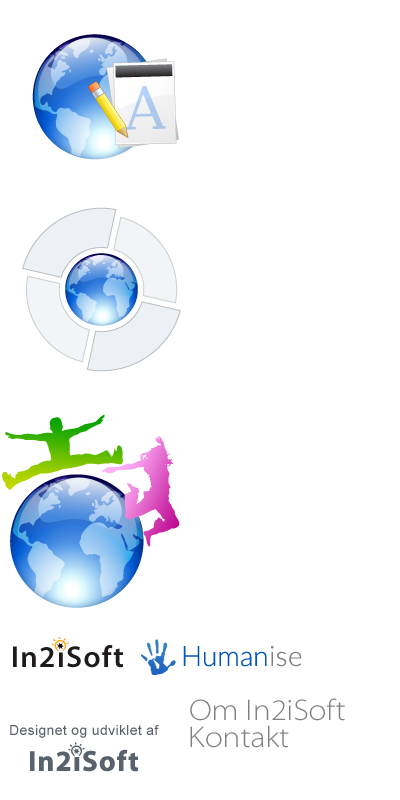
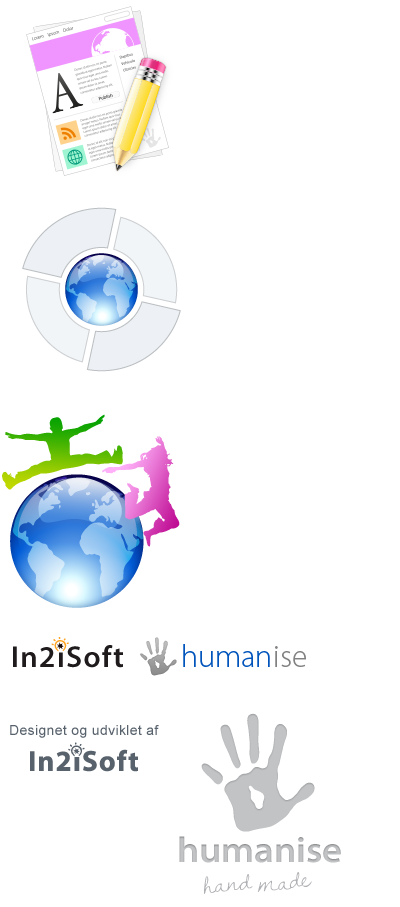
Humanise design

diff --git a/style/in2isoft/js/Poster.js b/style/in2isoft/js/Poster.js
@@ -10,9 +10,13 @@ Poster = function() {
 	this.context = 'style/in2isoft/gfx/';
 	this.leftImages = ['poster_in2isoft_image.png','poster_publisher_image.png','poster_in2igui_image.png','poster_onlineobjects_image.png'];
 	this.rightImages = ['poster_in2isoft_text.png','poster_publisher_text.png','poster_in2igui_text.png','poster_onlineobjects_text.png'];
+
+	this.leftImages = ['poster_humanise_image.png','poster_editor_image.png','poster_hui_image.png','poster_onlineobjects_image.png'];
+	this.rightImages = ['poster_humanise_text.png','poster_editor_text.png','poster_hui_text.png','poster_onlineobjects_text.png'];
+
 	this.links = ['om/','produkter/onlinepublisher/','teknologi/in2iGui/','produkter/onlineobjects/'];
-	this.leftPos = 0;
-	this.rightPos = 0;
+	this.leftPos = -1;
+	this.rightPos = -1;
 	var self = this;
 	this.poster.onclick = function() {
 		document.location=op.page.path+self.links[self.leftPos];

diff --git a/hui/js/Gallery.js b/hui/js/Gallery.js
@@ -46,6 +46,7 @@ hui.ui.Gallery.prototype = {
 		this.element.style.display='none';
 	},
 	show : function() {
+		hui.log('show');
 		this.element.style.display='';
 		if (this.options.source) {
 			this.options.source.refresh();
@@ -90,7 +91,7 @@ hui.ui.Gallery.prototype = {
 	},
 	/** @private */
 	$sourceShouldRefresh : function() {
-		return this.element.style.display!='none';
+		return hui.dom.isVisible(this.element);
 	},
 	/** @private */
 	$objectsLoaded : function(objects) {
@@ -102,6 +103,7 @@ hui.ui.Gallery.prototype = {
 	},
 	/** @private */
 	_render : function() {
+		hui.log('render')
 		this.nodes = [];
 		this.maxRevealed = 0;
 		this.body.innerHTML = '';
@@ -136,6 +138,7 @@ hui.ui.Gallery.prototype = {
 		this.fireSizeChange();
 	},
 	_reveal : function() {
+		hui.log('reveal');		
 		if (!this.revealing) {
 			return;
 		}

diff --git a/style/in2isoft/css/front.css b/style/in2isoft/css/front.css
@@ -127,7 +127,7 @@ ul.layout_placards strong
 	line-height: 30px;
 	font-weight: normal;
 	color: #89a;
-	padding: 8px 10px 15px;
+	padding: 8px 10px 10px;
 	font-family: Lato,"Lucida Grande","Lucida Sans Unicode", sans-serif;
 	font-weight: 300;
 }
@@ -143,7 +143,7 @@ ul.layout_placards span
 	display: block;
 	font-size: 18px;
 	line-height: 22px;
-	padding: 0 20px 0 150px;
+	padding: 5px 20px 0 150px;
 	height: 120px;
 	color: #567;
 	font-family: Lato,"Lucida Grande","Lucida Sans Unicode", sans-serif;
@@ -162,7 +162,7 @@ ul.layout_placards li.onlineme span
 
 ul.layout_placards li.onlinepublisher span
 {
-	background: url('../gfx/graphics.png') -44px -34px;
+	background: url('../gfx/graphics.png') -40px -5px;
 }
 
 ul.layout_placards li.onlineobjects span

diff --git a/style/in2isoft/css/humanise.css b/style/in2isoft/css/humanise.css
@@ -1,6 +1,22 @@
 ul.layout_navigation li.first a {
-	width: 162px;
-	height: 51px;
-	margin: -5px 10px 0 -6px;
-	background: url('../gfx/graphics.png') -140px -639px;
+	width: 170px;
+	height: 40px;
+	margin: -7px 10px 0 -6px;
+	background: url('../gfx/graphics.png') -140px -637px;
+}
+
+a.layout_design
+{
+	background: url('../gfx/graphics.png') -172px -709px;
+	text-indent: -10000px;
+	width: 177px;
+	height: 191px;
+	display: block;
+	margin: 0 auto;
+	margin-bottom: 10px;
+}
+
+div.layout_footer
+{
+	padding-bottom: 20px;
 }

diff --git a/style/in2isoft/css/adaption.css b/style/in2isoft/css/adaption.css
@@ -92,7 +92,7 @@
 
 	ul.layout_placards li.onlinepublisher span
 	{
-		background-position: -64px -34px;
+		background-position: -64px -5px;
 	}
 
 	ul.layout_placards li.onlineobjects span

diff --git a/style/in2isoft/css/style.php b/style/in2isoft/css/style.php
@@ -6,5 +6,5 @@ include 'main.css';
 include 'front.css';
 include 'overwrite.css';
 include 'adaption.css';
-//include 'humanise.css';
+include 'humanise.css';
 ?>
